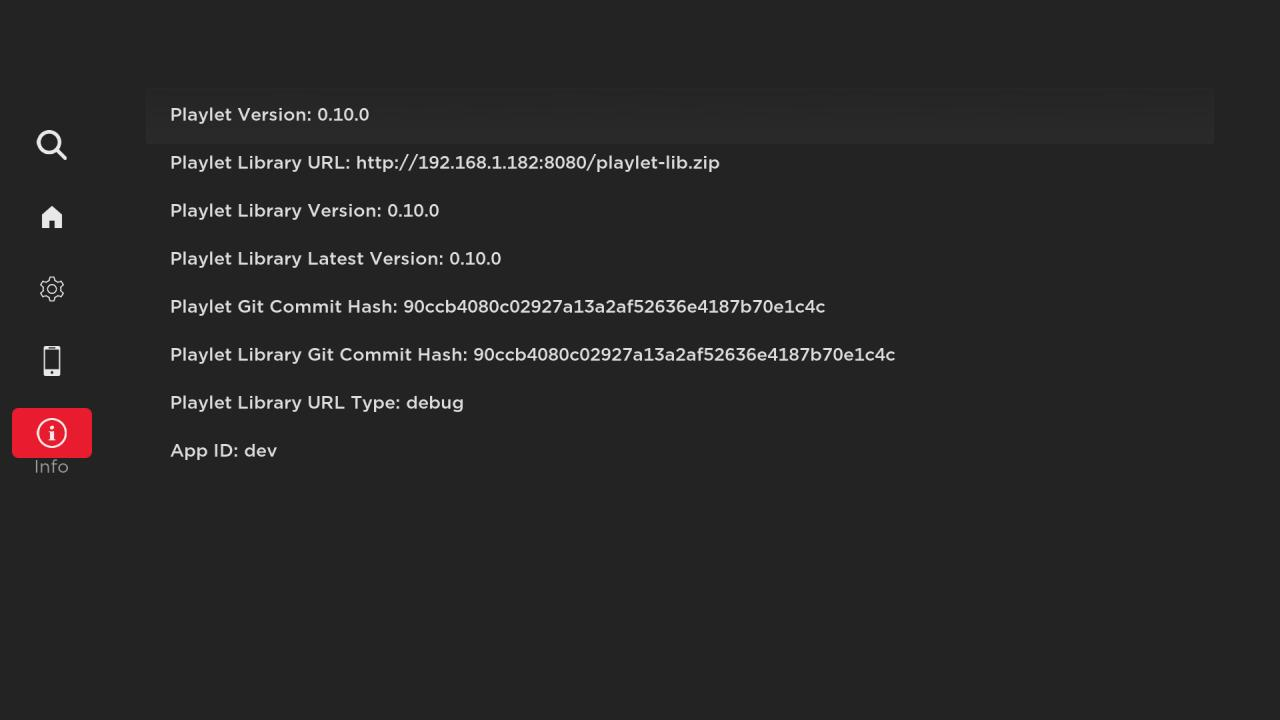
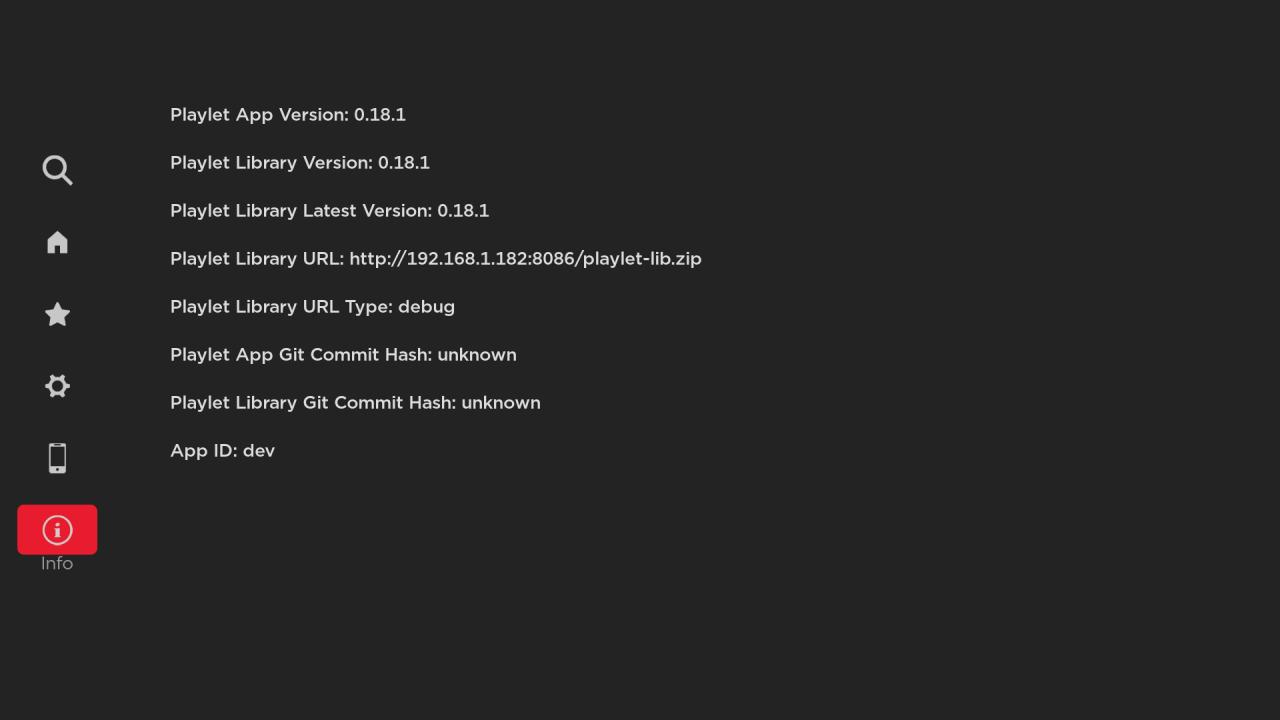
Screenshots (#249)

diff --git a/docs/screenshots/README.md b/docs/screenshots/README.md
@@ -1,30 +1,37 @@
 # Screenshots
 
-## Home
+## Playlet
 
-![Home](./home.jpg)
+| Home                | Search                  |
+| ------------------- | ----------------------- |
+| ![Home](./home.jpg) | ![Search](./search.jpg) |
 
-## Search
+| Bookmarks                     | Queue + Picture-in-picture                            |
+| ----------------------------- | ----------------------------------------------------- |
+| ![Bookmarks](./bookmarks.jpg) | ![Queue + Picture-in-picture](./queue-pic-in-pic.jpg) |
 
-![Search](./search.jpg)
+| Channel                   | Playlist                    |
+| ------------------------- | --------------------------- |
+| ![Channel](./channel.jpg) | ![Playlist](./playlist.jpg) |
 
-## Settings
+| Settings                    | Invidious instances                              | Invidious testing                             |
+| --------------------------- | ------------------------------------------------ | --------------------------------------------- |
+| ![Settings](./settings.jpg) | ![Invidious instances](./invidious-settings.jpg) | ![Invidious testing](./invidious-testing.jpg) |
 
-![Settings](./settings.jpg)
+| Link to web app                     | App info                    |
+| ----------------------------------- | --------------------------- |
+| ![Link to web app](./webapp-qr.jpg) | ![App info](./app-info.jpg) |
 
-## Playlist
+## Playlet web app
 
-![Playlist](./playlist.jpg)
-
-## Link to web app
-
-![Link to web app](./webapp-qr.jpg)
-
-## App info
-
-![App info](./app-info.jpg)
-
-## Web app
-
-| ![Web app home](./webapp-home.png) | ![Web app search](./webapp-search.png) | ![Web app settings](./webapp-settings.png) |
+| Home                               | Search                                 | Settings                                   |
 | ---------------------------------- | -------------------------------------- | ------------------------------------------ |
+| ![Web app home](./webapp-home.png) | ![Web app search](./webapp-search.png) | ![Web app settings](./webapp-settings.png) |
+
+| Bookmarks                            | Remote                         | Cast video                       |
+| ------------------------------------ | ------------------------------ | -------------------------------- |
+| ![Bookmarks](./webapp-bookmarks.png) | ![Remote](./webapp-remote.png) | ![Cast video](./webapp-cast.png) |
+
+| App info                       |     |     |
+| ------------------------------ | --- | --- |
+| ![App info](./webapp-info.png) |     |     |
